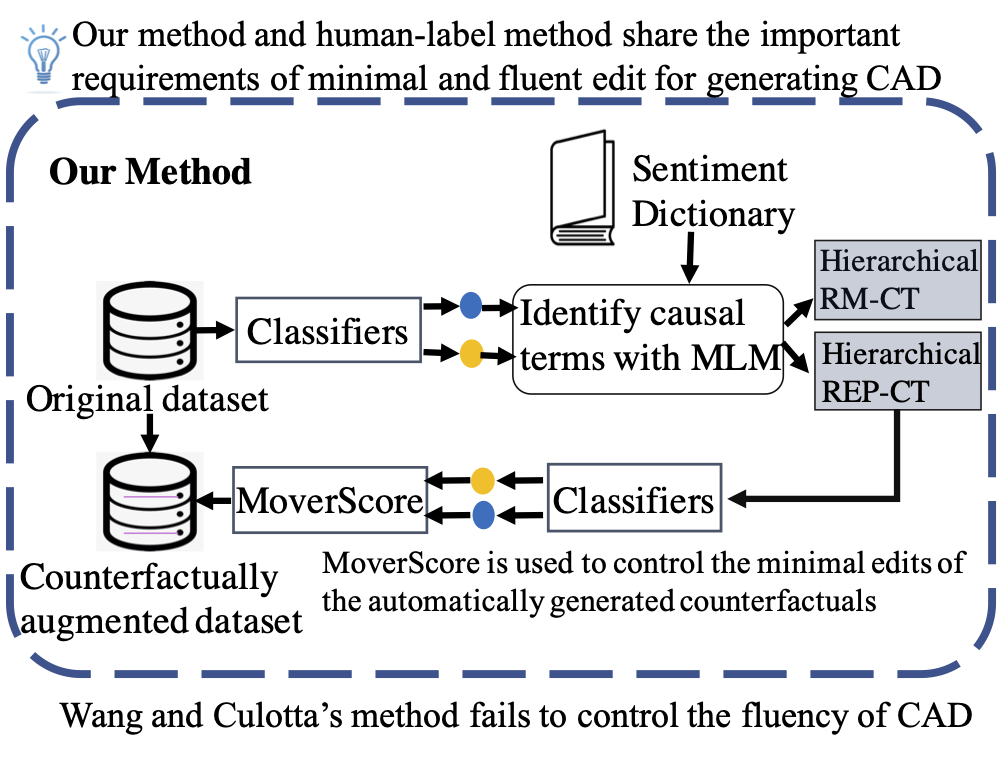
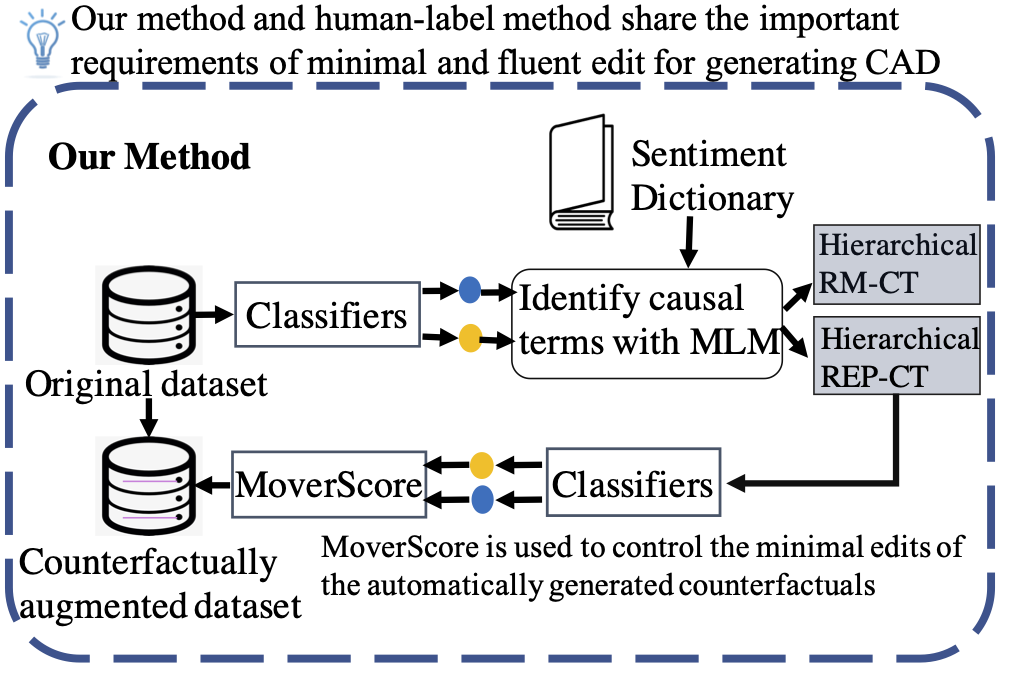
update intro image size

diff --git a/README.md b/README.md
@@ -7,7 +7,7 @@ Authors: Linyi Yang, Jiazheng Li, Pádraig Cunningham, Yue Zhang, Barry Smyth an
 While state-of-the-art NLP models have been achieving the excellent performance of a wide range of tasks in recent years, important questions are being raised about their robustness and their underlying sensitivity to systematic biases that may exist in their training and test data. Such issues come to be manifest in performance problems when faced with out-of-distribution data in the field. One recent solution has been to use counterfactually augmented datasets in order to reduce any reliance on spurious patterns that may exist in the original data. Producing high-quality augmented data can be costly and time-consuming as it usually needs to involve human feedback and crowdsourcing efforts. In this work, we propose an alternative by describing and evaluating an approach to automatically generating counterfactual data for the purpose of data augmentation and explanation. A comprehensive evaluation on several different datasets and using a variety of state-of-the-art benchmarks demonstrate how our approach can achieve significant improvements in model performance when compared to models training on the original data and even when compared to models trained with the benefit of human-generated augmented data.
 
 <p align="center">
-<img src="./Introduction.png">
+<img src="./Introduction.png" width="550" >
 </p>
 
 ## Quick Start
